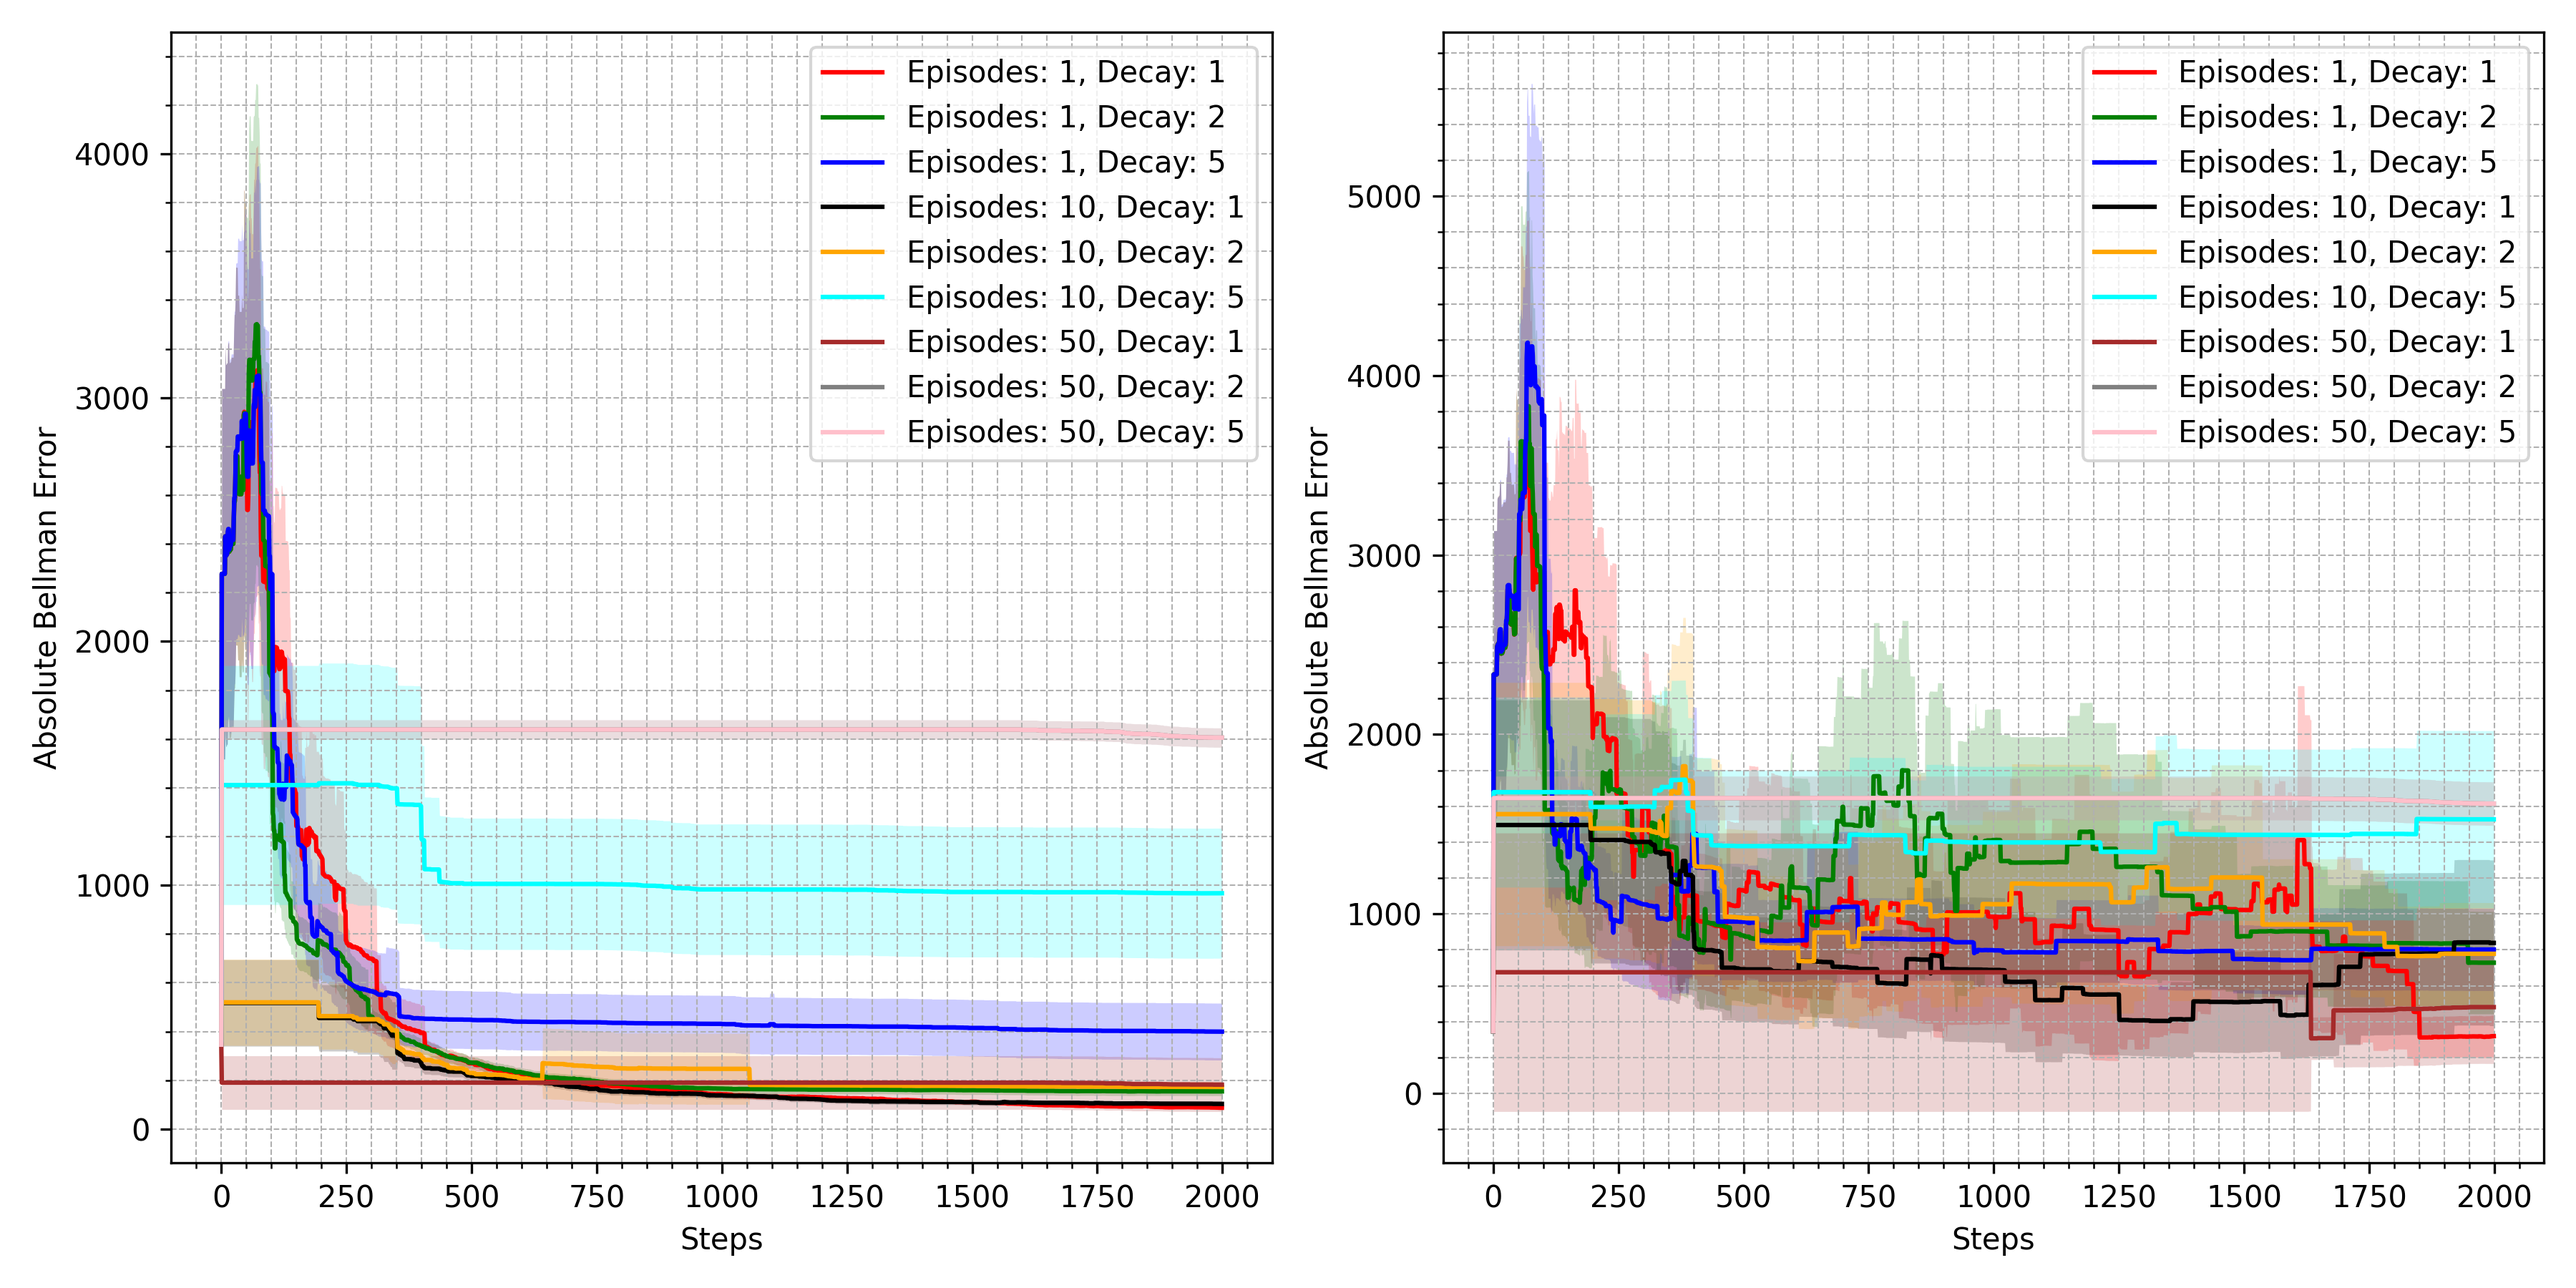
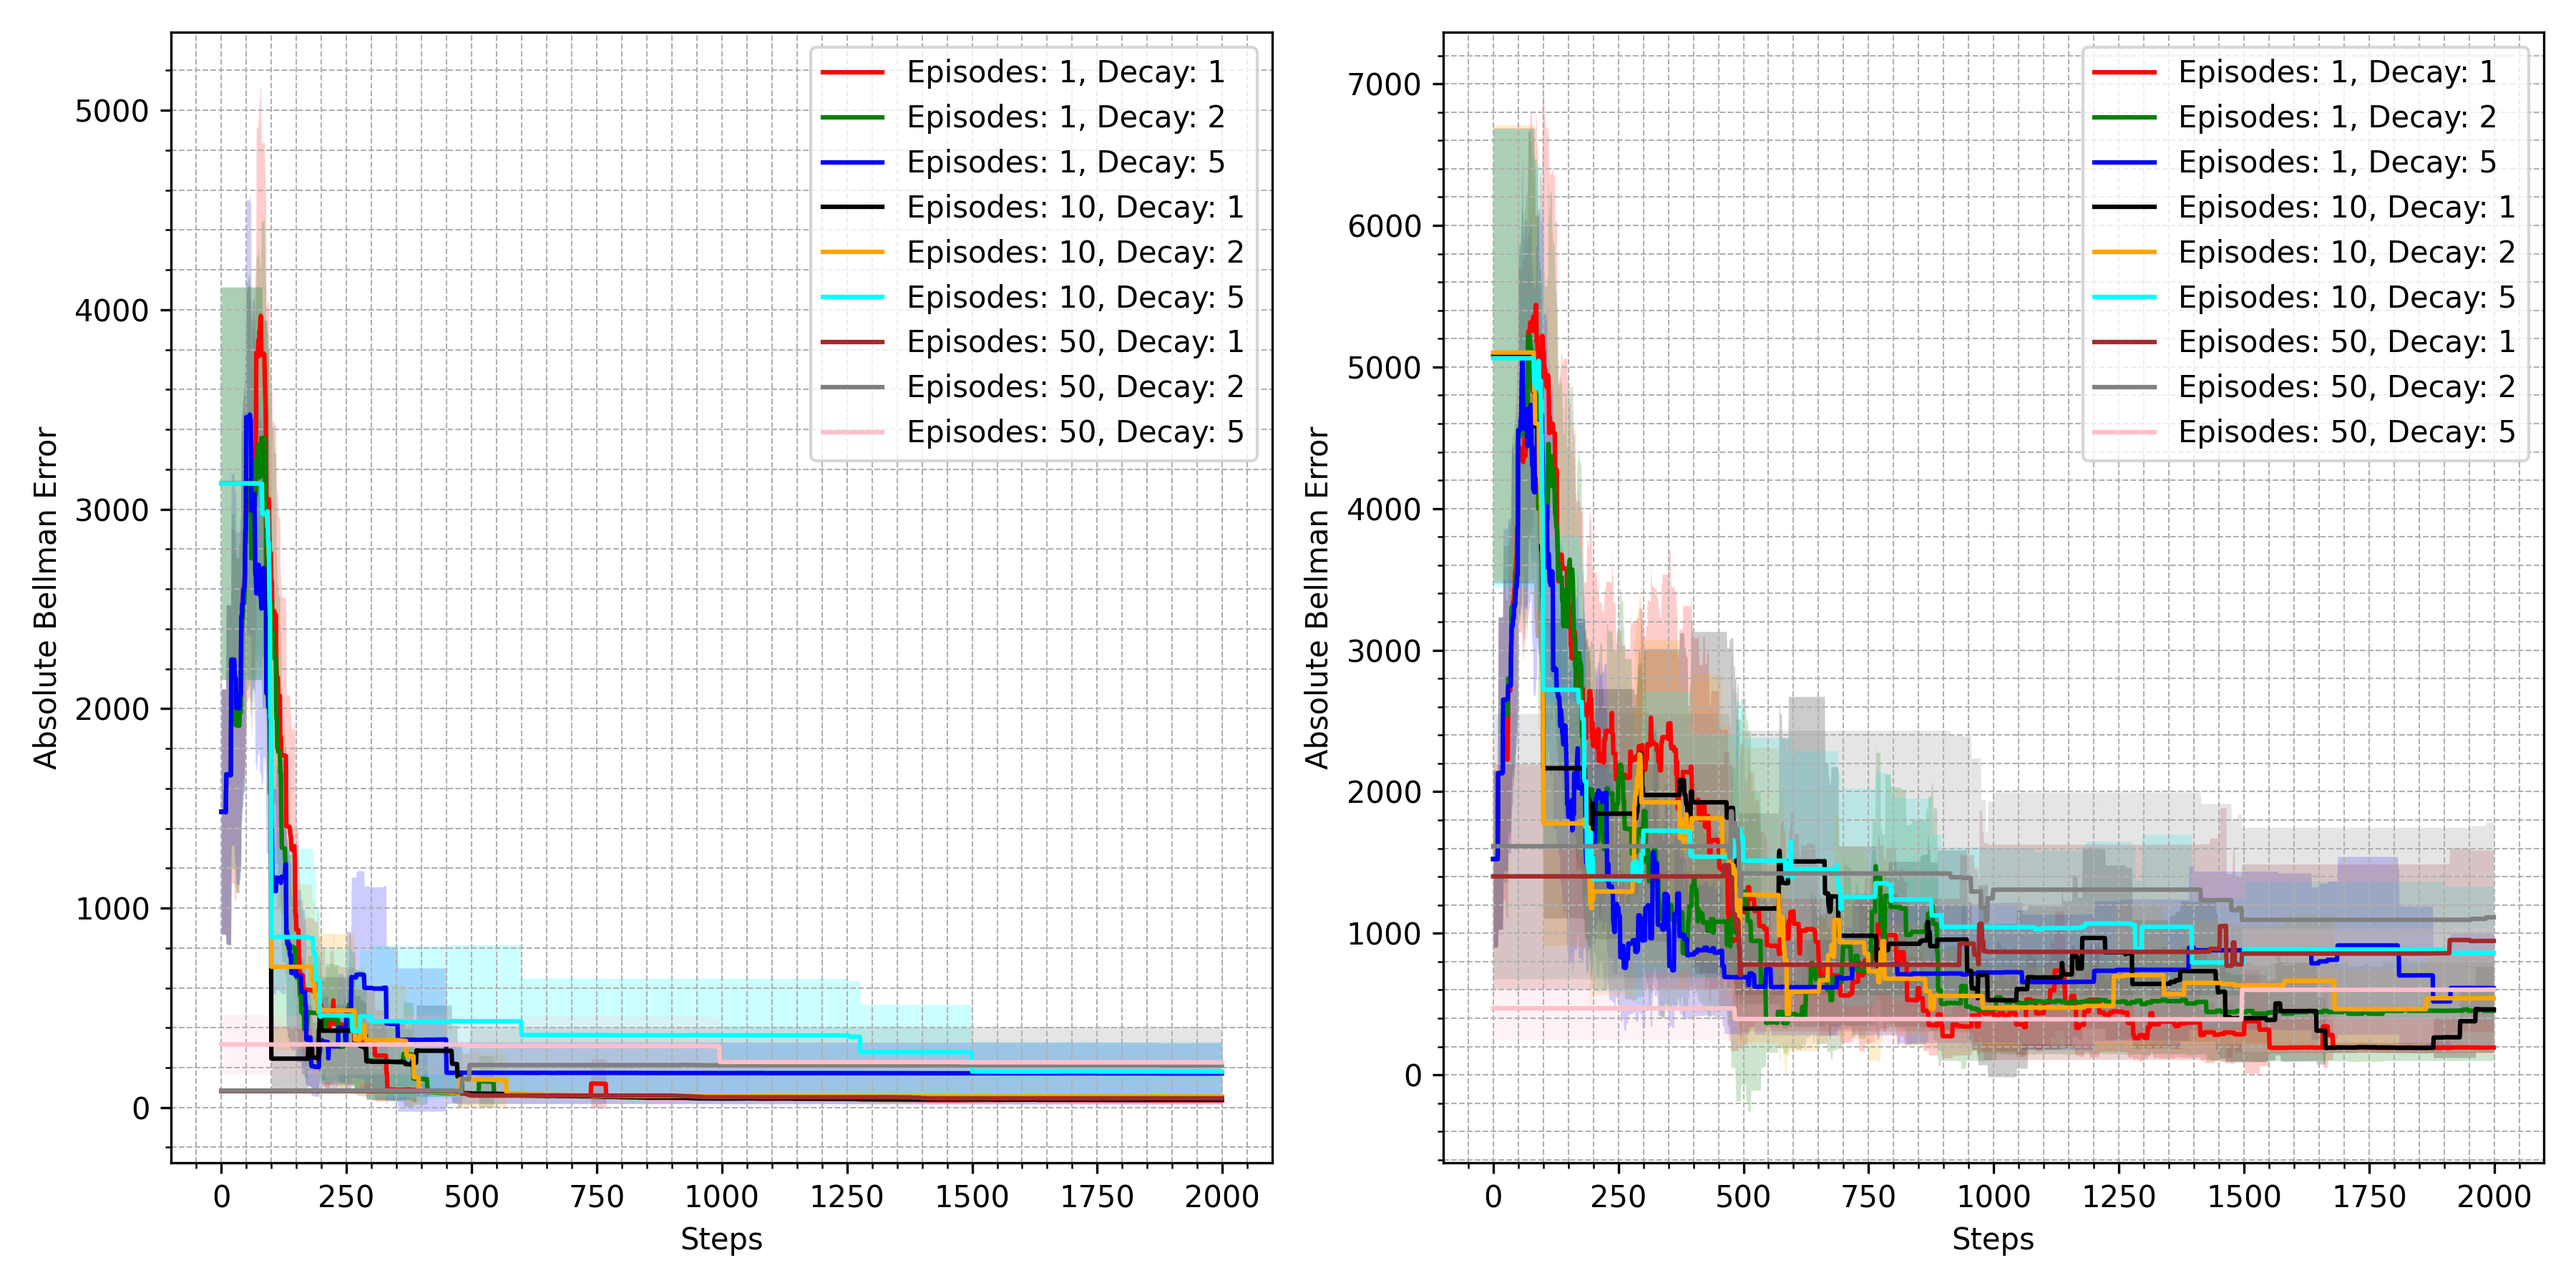
plots corrected

diff --git a/Assignment 4/gym_gridworlds/monte_carlo.py b/Assignment 4/gym_gridworlds/monte_carlo.py
@@ -72,12 +72,11 @@ def eps_greedy_action(Q, s, eps):
     return action
 
 
-def monte_carlo(env, Q, gamma, eps_decay, max_steps, episodes_per_iteration, use_is):
+def monte_carlo(env, Q, gamma, eps_decay, max_steps, episodes_per_iteration, use_is, seed):
     # return Q, be
     total_steps = 0
     eps = 1
-    returns = np.zeros((n_states, n_actions))
-    count = np.zeros((n_states, n_actions))
+    C = np.zeros((n_states, n_actions))
     bellman_error = np.zeros(max_steps)
 
     pi = eps_greedy_probs(Q, eps)
@@ -86,29 +85,36 @@ def monte_carlo(env, Q, gamma, eps_decay, max_steps, episodes_per_iteration, use
 
     while total_steps < max_steps:
         current_step = total_steps
-        for _ in range(episodes_per_iteration):
-            data = episode(env, Q, eps, seed = np.random.randint(10000))
-            episode_steps = len(data["s"])
-            total_steps += episode_steps
+        episodes_data = []
 
-            G = 0
-            for t in reversed(range(episode_steps)):
-                s, a, r = data["s"][t], data["a"][t], data["r"][t]
-                G = gamma * G + r
-                returns[s, a] += G
-                count[s, a] += 1
-                Q[s, a] = returns[s, a] / count[s, a]
+        for _ in range(episodes_per_iteration):
+            
+            data = episode(env, Q, eps, seed=seed)
+            episodes_data.append(data)
+            episode_steps = len(data["s"])
+
+            total_steps += episode_steps
 
             eps = max(eps - eps_decay * episode_steps, 0.01)
 
             if total_steps >= max_steps:
                 break
+        
+        for data in episodes_data:
+            G = 0
+            W = 1
+
+            for t in reversed(range(len(data["s"]))):
+                s, a, r = data["s"][t], data["a"][t], data["r"][t]
+                G = gamma * G + r 
+                C[s, a] += W
+                Q[s, a] += (W / C[s, a]) * (G - Q[s, a])
 
         pi = eps_greedy_probs(Q, eps)
         Q_true = bellman_q(pi, gamma)
         error = np.abs(Q-Q_true).sum()
 
-        bellman_error[current_step:total_steps] = error
+        bellman_error[current_step: total_steps] = error
 
     return Q, bellman_error
 
@@ -124,7 +130,7 @@ def error_shade_plot(ax, data, stepsize, **kwargs):
 
 
 init_value = 0.0
-gamma = 0.9
+gamma = 0.99
 max_steps = 2000
 horizon = 10
 
@@ -155,7 +161,7 @@ for ax, reward_noise_std in zip(axs, [0.0, 3.0]):
 
     env = gymnasium.make(
         "Gym-Gridworlds/Penalty-3x3-v0",
-        max_total_steps=horizon,
+        max_episode_steps=horizon,
         reward_noise_std=reward_noise_std,
     )
     for j, episodes in enumerate(episodes_per_iteration):
@@ -163,7 +169,7 @@ for ax, reward_noise_std in zip(axs, [0.0, 3.0]):
             for seed in seeds:
                 np.random.seed(seed)
                 Q = np.zeros((n_states, n_actions)) + init_value
-                Q, be = monte_carlo(env, Q, gamma, decay / max_steps, max_steps, episodes, use_is)
+                Q, be = monte_carlo(env, Q, gamma, decay / max_steps, max_steps, episodes, use_is, int(seed))
                 results[j, k, seed] = be
             error_shade_plot(
                 ax,

diff --git a/Assignment 4/gym_gridworlds/MC_with_IS.py b/Assignment 4/gym_gridworlds/MC_with_IS.py
@@ -72,7 +72,7 @@ def eps_greedy_action(Q, s, eps):
     return action
 
 
-def monte_carlo(env, Q, gamma, eps_decay, max_steps, episodes_per_iteration, use_is=True):
+def monte_carlo(env, Q, gamma, eps_decay, max_steps, episodes_per_iteration, use_is, seed):
     # return Q, be
     total_steps = 0
     eps_behavior = 1
@@ -86,34 +86,36 @@ def monte_carlo(env, Q, gamma, eps_decay, max_steps, episodes_per_iteration, use
 
     while total_steps < max_steps:
         current_step = total_steps
+        episodes_data = []
+
         for _ in range(episodes_per_iteration):
-            data = episode(env, Q, eps_behavior, seed = np.random.randint(10000))
+            data = episode(env, Q, eps_behavior, seed=seed)
+            episodes_data.append(data)
             episode_steps = len(data["s"])
             total_steps += episode_steps
-
-            G = 0
-            W = 1.0
-
-            for t in reversed(range(episode_steps)):
-                s, a, r = data["s"][t], data["a"][t], data["r"][t]
-                G = gamma * G + r
-                C[s, a] += W
-                Q[s, a] += (W / C[s, a]) * (G - Q[s, a])
-                IS = eps_greedy_probs(Q, eps_target)[s][a] / eps_greedy_probs(Q, eps_behavior)[s][a]
-                W *= IS
-
-                # add break statement
 
             eps_behavior = max(eps_behavior - eps_decay * episode_steps, 0.01)
 
             if total_steps >= max_steps:
                 break
 
+        for data in episodes_data:
+            G = 0
+            W = 1
+
+            for t in reversed(range(len(data["s"]))):
+                s, a, r = data["s"][t], data["a"][t], data["r"][t]
+                G = gamma * G + r 
+                C[s, a] += W
+                Q[s, a] += (W / C[s, a]) * (G - Q[s, a])
+                IS = eps_greedy_probs(Q, eps_target)[s][a] / eps_greedy_probs(Q, eps_behavior)[s][a]
+                W *= IS
+
         pi = eps_greedy_probs(Q, eps_target)
         Q_true = bellman_q(pi, gamma)
         error = np.abs(Q-Q_true).sum()
 
-        bellman_error[current_step:total_steps] = error
+        bellman_error[current_step: total_steps] = error
 
     return Q, bellman_error
 
@@ -129,7 +131,7 @@ def error_shade_plot(ax, data, stepsize, **kwargs):
 
 
 init_value = 0.0
-gamma = 0.9
+gamma = 0.99
 max_steps = 2000
 horizon = 10
 
@@ -159,7 +161,7 @@ for ax, reward_noise_std in zip(axs, [0.0, 3.0]):
     ax.minorticks_on()
     env = gymnasium.make(
         "Gym-Gridworlds/Penalty-3x3-v0",
-        max_total_steps=horizon,
+        max_episode_steps=horizon,
         reward_noise_std=reward_noise_std,
     )
     for j, episodes in enumerate(episodes_per_iteration):
@@ -167,7 +169,7 @@ for ax, reward_noise_std in zip(axs, [0.0, 3.0]):
             for seed in seeds:
                 np.random.seed(seed)
                 Q = np.zeros((n_states, n_actions)) + init_value
-                Q, be = monte_carlo(env, Q, gamma, decay / max_steps, max_steps, episodes, use_is)
+                Q, be = monte_carlo(env, Q, gamma, decay / max_steps, max_steps, episodes, use_is, int(seed))
                 results[j, k, seed] = be
             error_shade_plot(
                 ax,
